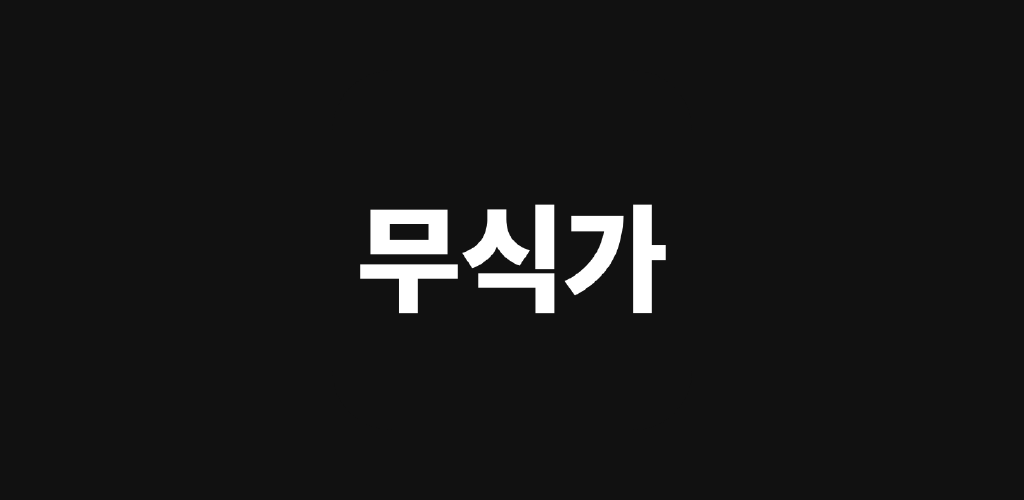
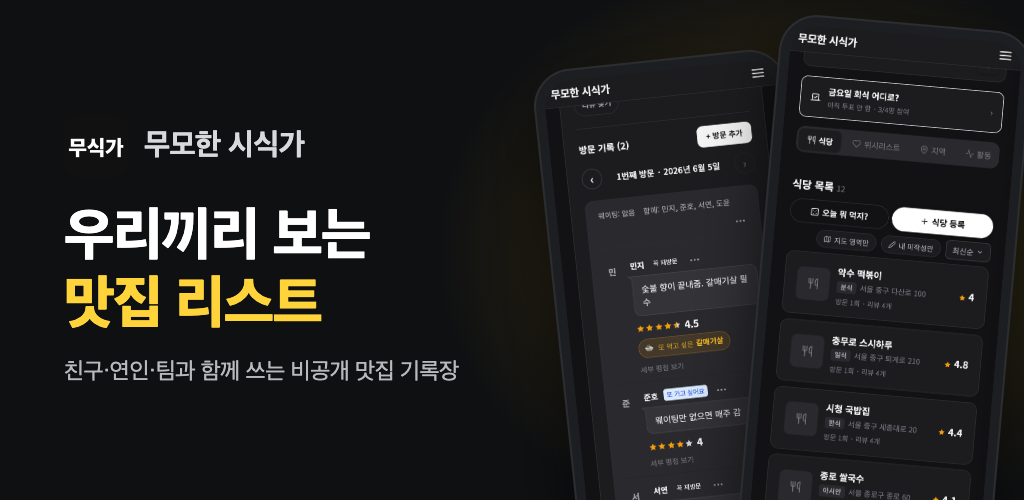
docs(store): 스토어 스크린샷 8장·그래픽 이미지 + 데이터 보안 답안 + 개인정보처리방침 갱신
- 캡션 목업 스크린샷 8장(1080x1920)과 1024x500 그래픽을 가상 데모 데이터로 새로 제작
  (재제작용 헤드리스 크롬 스크립트는 docs/store-assets/mockup/)
- 데이터 보안 답안을 코드 기준으로 갱신: 위치(카카오 장소 검색으로 좌표 전송), 앱 상호작용(GA),
  사용자 ID, 문의 이메일 추가. 광고 없음 확인
- 개인정보처리방침: 작성 기록·사진·위치·푸시 토큰·이용 기록 수집 항목, Cloudflare·Google 위탁,
  국외 이전 표, 탈퇴 경로 안내 수정. Render 리전 국가는 확인 후 채워야 함 (RENDER_COUNTRY)

diff --git a/docs/store-listing.md b/docs/store-listing.md
@@ -93,41 +93,63 @@
 
 ## 스크린샷 구성 (폰 최소 2장, 권장 5장)
 
-앱 화면을 그대로 올리지 말고 **상단에 한 줄 카피를 얹은 목업**으로 만든다.
-현재 UI가 그레이스케일이라 그냥 캡처하면 스토어에서 눈에 띄지 않는다.
+**완성본: [store-assets/screenshots/](store-assets/screenshots/) 8장 (1080×1920, 9:16)** — 2026-11-11 제작.
+순서대로 올리면 된다. 상단 카피 + 폰 목업, 다크 배경에 노란 강조.
 
-| # | 화면 | 얹을 카피 |
-| --- | --- | --- |
-| 1 | 방 상세 (식당 목록, 썸네일 보이는 상태) | 우리끼리 보는 맛집 리스트 |
-| 2 | 식당 등록 위저드 | 검색 한 번으로 기록 완성 |
-| 3 | 리뷰 세부 평점 | 광고 없는 진짜 평가 |
-| 4 | 투표 화면 | 오늘 뭐 먹지? 링크로 투표 |
-| 5 | 통계 탭 | 우리 방의 1년이 데이터로 |
+| # | 파일 | 화면 | 카피 |
+| --- | --- | --- | --- |
+| 1 | screenshot-1.png | 방 식당 목록 + 진행 중 투표 | 우리끼리 보는 **맛집 리스트** |
+| 2 | screenshot-2.png | 멤버별 리뷰 | 광고 없는 **진짜 평가** |
+| 3 | screenshot-3.png | 기록하기 (총점 먼저) | 별점만 눌러도 **기록 끝** |
+| 4 | screenshot-4.png | 오늘 뭐 먹지? 추천 | 오늘 뭐 먹지? **버튼 한 번** |
+| 5 | screenshot-5.png | 진행 중 투표 | 회식 장소는 **투표로 정해요** |
+| 6 | screenshot-6.png | QR·카톡 초대 카드 | QR 한 번이면 **친구 초대 끝** |
+| 7 | screenshot-7.png | 통계·멤버 성향 | 우리 방 취향이 **데이터로 쌓여요** |
+| 8 | screenshot-8.png | 식당 평균·세부 평점 | 멤버 평균으로 보는 **진짜 맛집 점수** |
 
-> 스크린샷용 방에는 **식당 8곳 이상 + 사진 + 리뷰**를 미리 채워둘 것.
-> 빈 화면 캡처는 설치율을 직접 깎는다.
+- 화면 속 식당·멤버·리뷰는 전부 **가상 데모 데이터**다 (실존 상호에 가짜 별점이 붙지 않도록).
+- 다시 만들 때: 로컬 API·웹을 띄우고 데모 데이터를 넣은 뒤 [mockup/](store-assets/mockup/) 스크립트를 쓴다.
+  `capture.mjs`(헤드리스 크롬 390×844@3x 캡처) → `compose.mjs`(캡션 HTML 생성) → `render.mjs`(PNG 렌더).
+- 지도 타일은 헤드리스 캡처에서 안 그려져서 지도가 크게 보이는 화면은 뺐다.
 
 ## 그래픽 자산
 
-- 앱 아이콘 512×512 (PNG, 알파 없음)
-- 그래픽 이미지 1024×500
-- 폰 스크린샷 최소 2장 (16:9 또는 9:16)
+| 자산 | 파일 | 규격 |
+| --- | --- | --- |
+| 앱 아이콘 | [icon-512.png](store-assets/icon-512.png) | 512×512 |
+| 그래픽 이미지 | [feature-graphic-1024x500.png](store-assets/feature-graphic-1024x500.png) | 1024×500 |
+| 폰 스크린샷 | [screenshots/](store-assets/screenshots/) | 1080×1920 × 8장 |
 
-## 데이터 안전 양식 답변 초안
+## 데이터 보안 양식 답변 (2026-11-11 코드 기준으로 갱신)
 
-| 항목 | 수집 | 용도 | 필수 |
-| --- | --- | --- | --- |
-| 이메일 주소 | O | 계정 식별 (카카오·네이버 OAuth) | 필수 |
-| 이름/닉네임 | O | 방 내 표시 | 필수 |
-| 프로필 사진 | O | 방 내 표시 | 선택 |
-| 사진 | O | 리뷰 이미지 | 선택 |
-| 앱 활동(사용자 생성 콘텐츠) | O | 방·식당·리뷰 기록 | 필수 |
-| 기기 ID | O | 푸시 알림(FCM) | 선택 |
-| 위치 | X | — | — |
+Play Console → 앱 콘텐츠 → 데이터 보안. 질문 순서대로.
 
-- 전송 구간 암호화: 예 (HTTPS)
-- 데이터 삭제 요청 가능: 예 → `https://musikga.kr/profile/account`
-- 광고 목적 공유: 아니오
+**1. 데이터 수집 및 보안**
+- 앱이 필수 사용자 데이터 유형을 수집하거나 공유하나요? → **예**
+- 전송 중 데이터가 암호화되나요? → **예** (모든 통신 HTTPS)
+- 사용자가 데이터 삭제를 요청할 수 있나요? → **예** (앱 안 프로필 → 계정에서 즉시 탈퇴)
+- 계정 삭제 URL → `https://musikga.kr/profile/account`
+
+**2. 수집하는 데이터 유형** ("공유"는 전부 아니오 — 아래 외부 서비스는 모두 우리를 대신해 처리하는 서비스 제공업체라 Play 기준 공유가 아니다)
+
+| Play 분류 | 항목 | 수집 | 필수/선택 | 목적 | 근거 |
+| --- | --- | --- | --- | --- | --- |
+| 개인 정보 | 이메일 주소 | 예 | 필수 | 계정 관리 | 카카오·네이버 로그인 |
+| 개인 정보 | 이름 | 예 | 필수 | 앱 기능, 계정 관리 | 닉네임 (방 안에 표시) |
+| 개인 정보 | 사용자 ID | 예 | 필수 | 계정 관리 | 카카오·네이버 계정 식별자 |
+| 사진 및 동영상 | 사진 | 예 | 선택 | 앱 기능 | 프로필·식당·리뷰 사진 (Cloudflare R2 저장) |
+| 위치 | 대략적인 위치 | 예 | 선택 | 앱 기능 | 근처 위시리스트, "내 주변" 추천 |
+| 위치 | 정확한 위치 | 예 | 선택 | 앱 기능 | 위와 같음 (`ACCESS_FINE_LOCATION`) |
+| 앱 활동 | 기타 사용자 생성 콘텐츠 | 예 | 필수 | 앱 기능 | 방·식당·방문·리뷰·투표 기록 |
+| 앱 활동 | 앱 상호작용 | 예 | 필수 | 분석 | Google Analytics (앱 번들에 GA 포함 확인) |
+| 기기 또는 기타 ID | 기기 ID | 예 | 선택 | 앱 기능 | 푸시 알림 토큰 (Firebase Cloud Messaging) |
+| 개인 정보 | 이메일 주소 (문의) | 예 | 선택 | 고객 지원 | 문의 폼에 직접 입력 |
+
+**위치를 "예"로 바꾼 이유**: 좌표를 우리 서버에 저장하지는 않지만, "내 주변" 추천에서 카카오 장소 검색으로
+기기의 좌표가 전송된다. Play는 "기기 밖으로 전송"이면 수집으로 본다 (일시적 처리 여부 질문에는 **예, 일시적으로 처리** 선택).
+
+**수집하지 않음**: 전화번호·주소·결제·연락처·메시지·건강·파일·캘린더·웹 기록·오류 로그(크래시 수집 SDK 없음).
+**광고**: 없음 (`PUBLIC_AD_CLIENT` 비어 있음, 앱 번들에 AdSense 없음 확인) → 광고 ID 수집 안 함.
 
 ## 앱 액세스 권한 (심사용)
 
